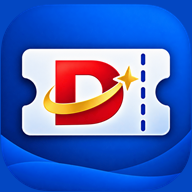
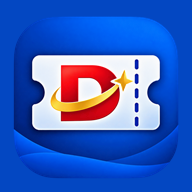
Add files via upload

diff --git a/index.html b/index.html
@@ -14,7 +14,7 @@
   <meta name="apple-mobile-web-app-capable" content="yes">
   <meta name="apple-mobile-web-app-status-bar-style" content="black-translucent">
   <meta name="apple-mobile-web-app-title" content="D House x Café Amazon">
-  <link rel="apple-touch-icon" href="public/assets/image/icon-192.png?v=21">
+  <link rel="apple-touch-icon" href="public/assets/image/icon-192.png?v=22">
 
   <link rel="stylesheet" href="styles.css?v=46">
   

diff --git a/sw.js b/sw.js
@@ -1,5 +1,5 @@
 const CACHE_PREFIX = 'amazon-staff-';
-const CACHE_NAME = `${CACHE_PREFIX}v210`;
+const CACHE_NAME = `${CACHE_PREFIX}v211`;
 
 self.addEventListener('install', event => {
   event.waitUntil(self.skipWaiting());
